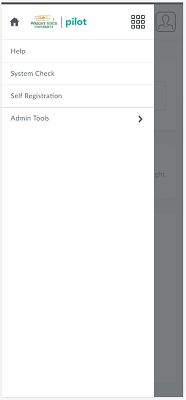
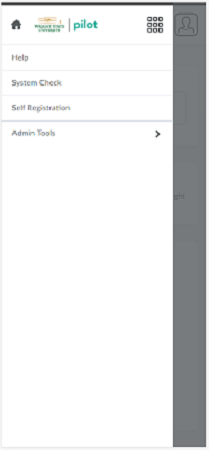
resize pictures

diff --git a/UI_Info/Design_Inspiration.md b/UI_Info/Design_Inspiration.md
@@ -3,9 +3,9 @@ The design pulls its inspiration from many common mobile applications.
 It has a static header and footer with dynamic content in the middle.
 Additional content is brought into view by means of a side loading menu.
 
-![Pilot_Example](./Images/pilot_closed.png)
+![Pilot_Example](./Images/pilot_closed.png) ![Pilot_Example](./Images/pilot_open.png)
 
-![Pilot_Example](./Images/pilot_open.png)
+
 
 
      
